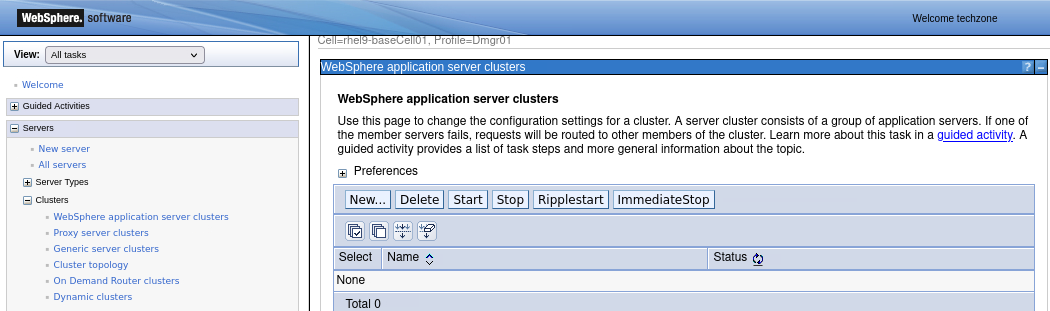
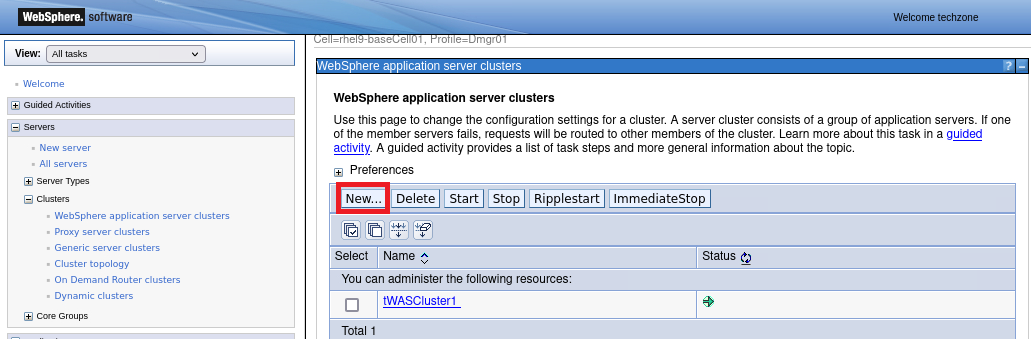
Add steps

Changed region(s): [[0.0, 0.0, 1.0, 1.0]]

diff --git a/README.md b/README.md
@@ -633,15 +633,28 @@ You can create a **managed Liberty cluster** via the WebSphere Administration co
 
 		<kbd>![WAS_Login_Panel](./images/media/WAS_Enable_CommandAssistance.png)</kbd>
 
-4. Create a managed Liberty cluster named managedLibertyCluster1
+4. Navigate to **Servers > All Servers** to see the servers defined in the WebSphere cell. As you can see, there are several servers defined.
+For the lab we only use the web server and the servers from tWASCluster1.
 
-	<kbd>![](./images/media/MoRE_createCluster1.png)</kbd>
+	<kbd>![WAS_AllServers](./images/media/WAS_AllServers.png)</kbd>
 
-	<kbd>![](./images/media/MoRE_createCluster2.png)</kbd>
+5. Navigate to **Servers > Clusters > WebSphere application server clusters** to see the clusters defined in the WebSphere cell. As you can see, there is only the cluster tWASCluster1 defined. 
 
-2. Create the first cluster member on the first node based on the managed Liberty server template.
+	<kbd>![WAS_AllServers](./images/media/WAS_Clusters.png)</kbd>
+
+6. Create a managed Liberty cluster named managedLibertyCluster1. 
+
+	1. Click on **New** to create a new cluster.
+
+		<kbd>![](./images/media/MoRE_createCluster1.png)</kbd>
+
+	2. Enter **managedLibertyCluster1** for the Cluster name, then click **Next**.
+
+		<kbd>![](./images/media/MoRE_createCluster2.png)</kbd>
+
+	3. Create the first cluster member called **LibertyClusterMember1** on the node **rhel9-baseNode01** and select as basis to use the server template **default-managed-liberty-server**.
 	
-	<kbd>![](./images/media/MoRE_createCluster3.png)</kbd>
+		<kbd>![](./images/media/MoRE_createCluster3.png)</kbd>
 
 3. Add another cluster member, this time on the sevcond node.
 
